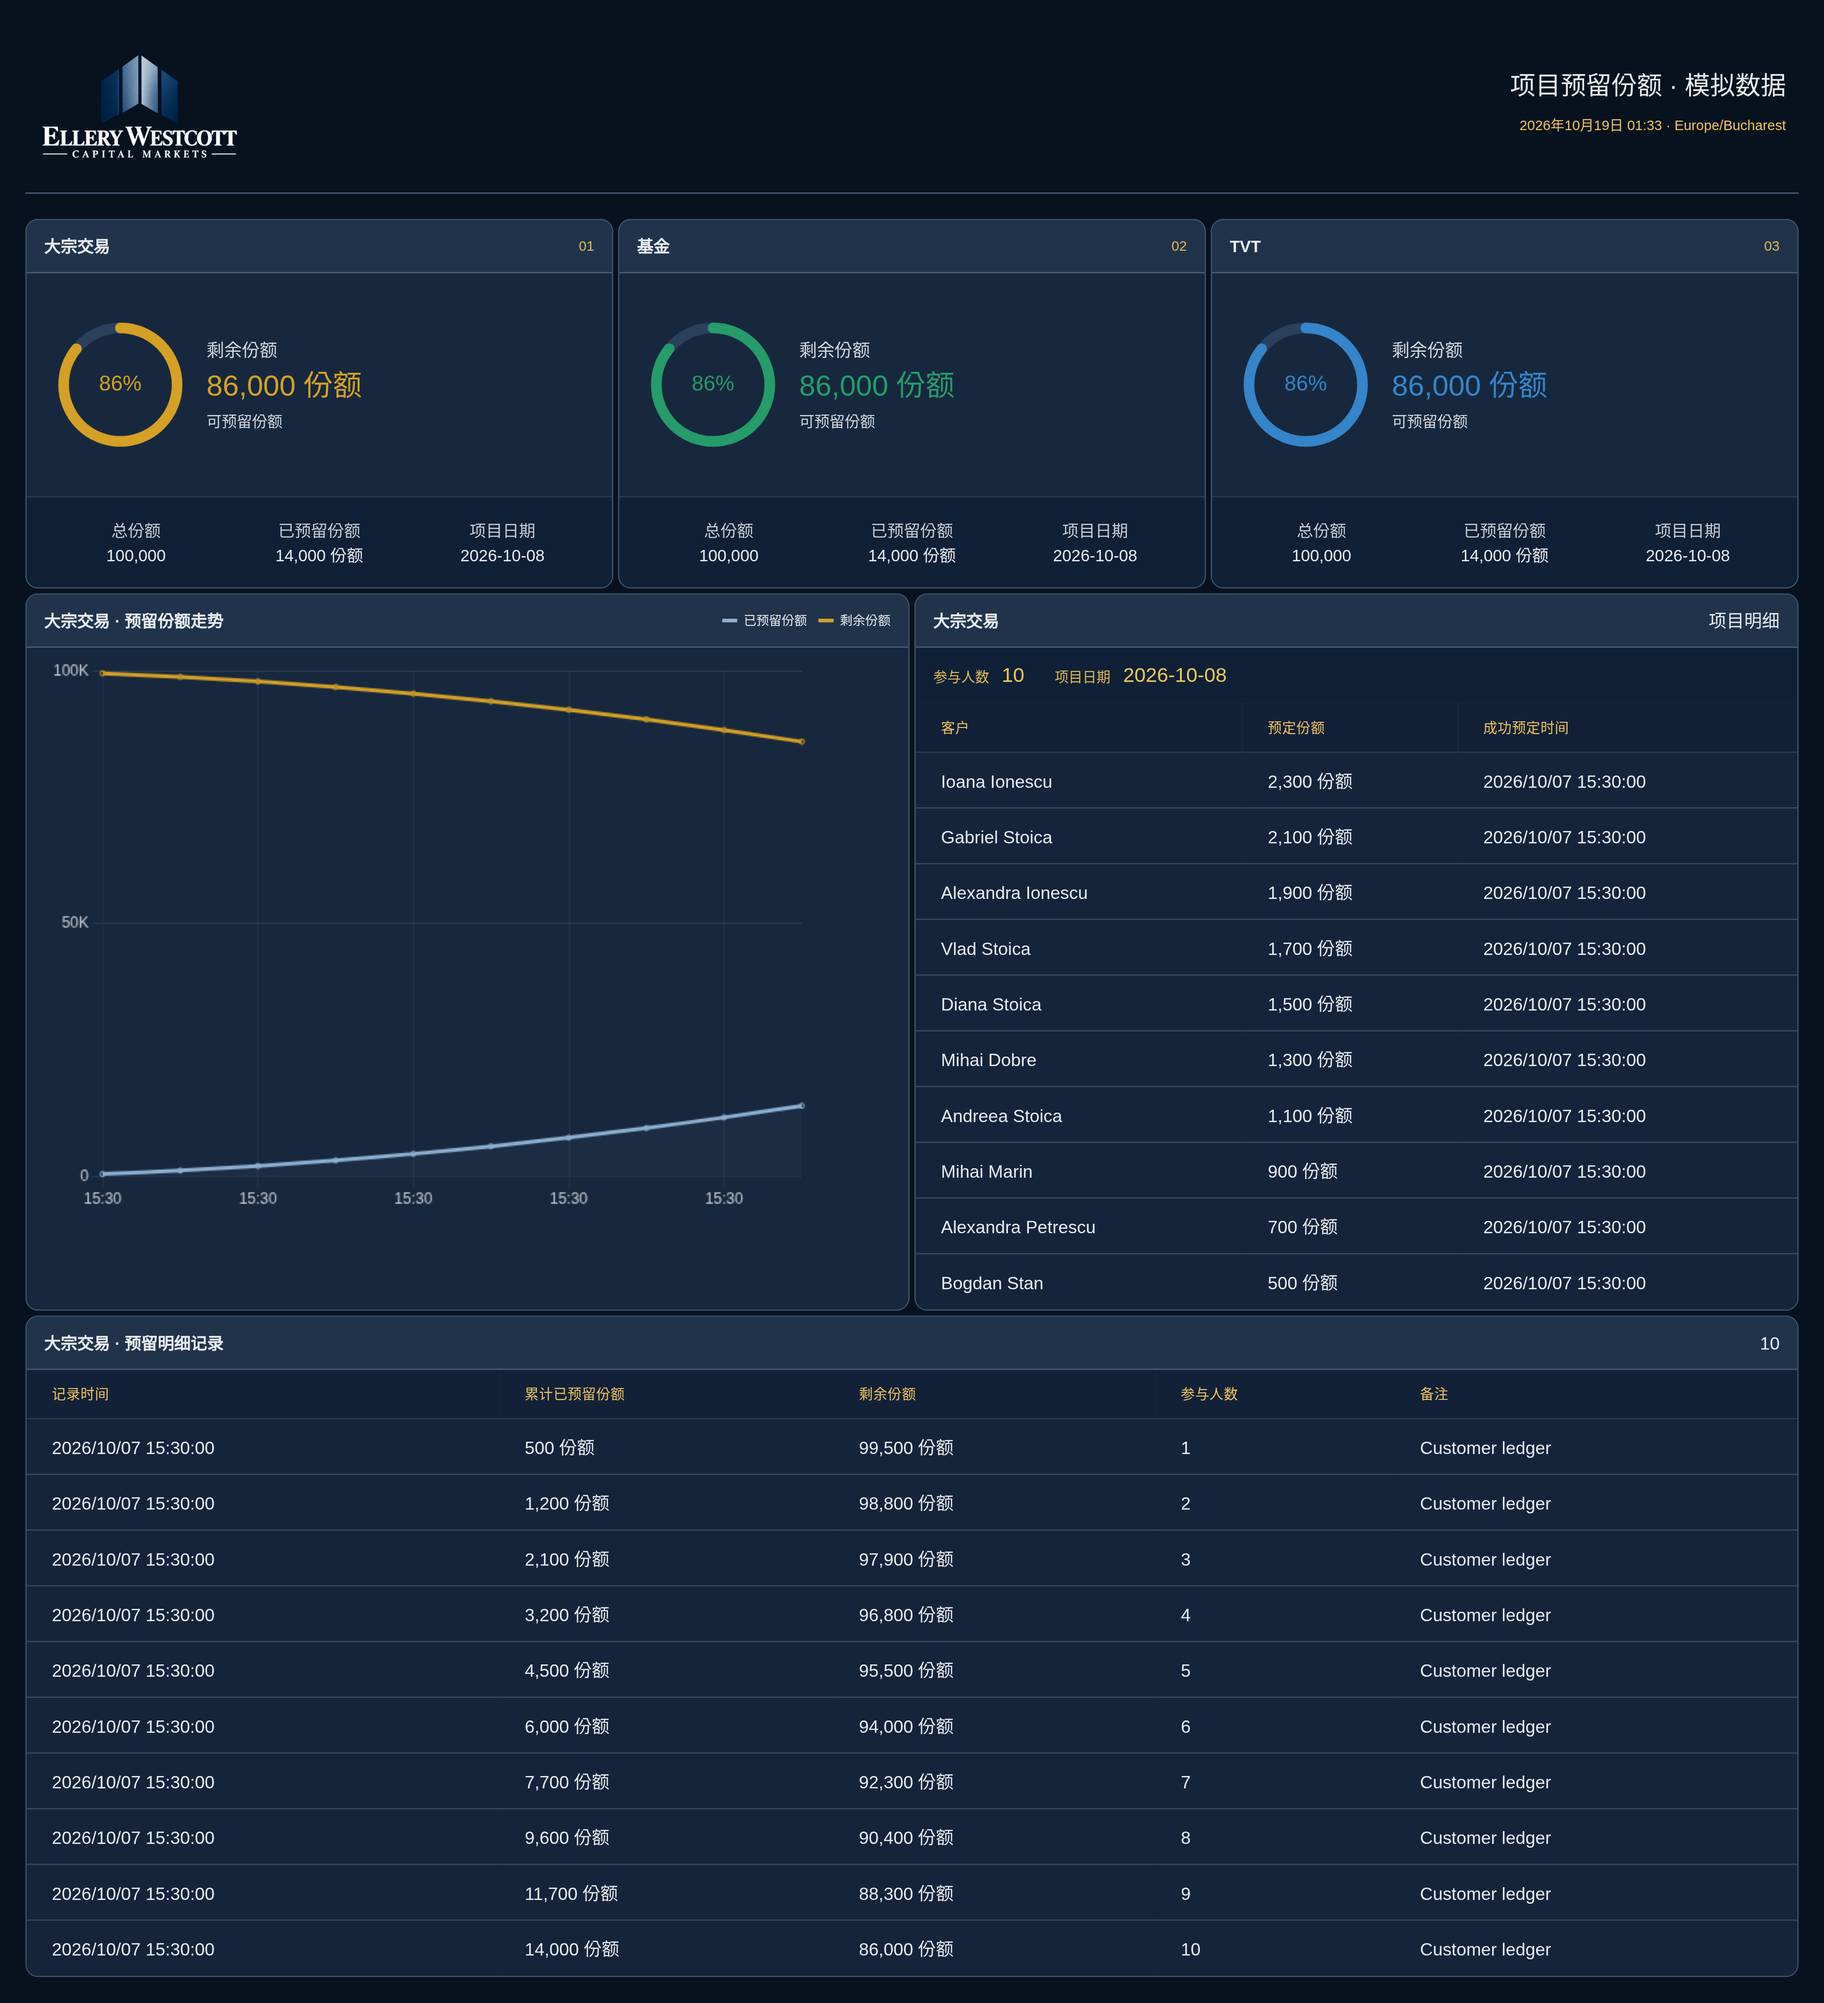
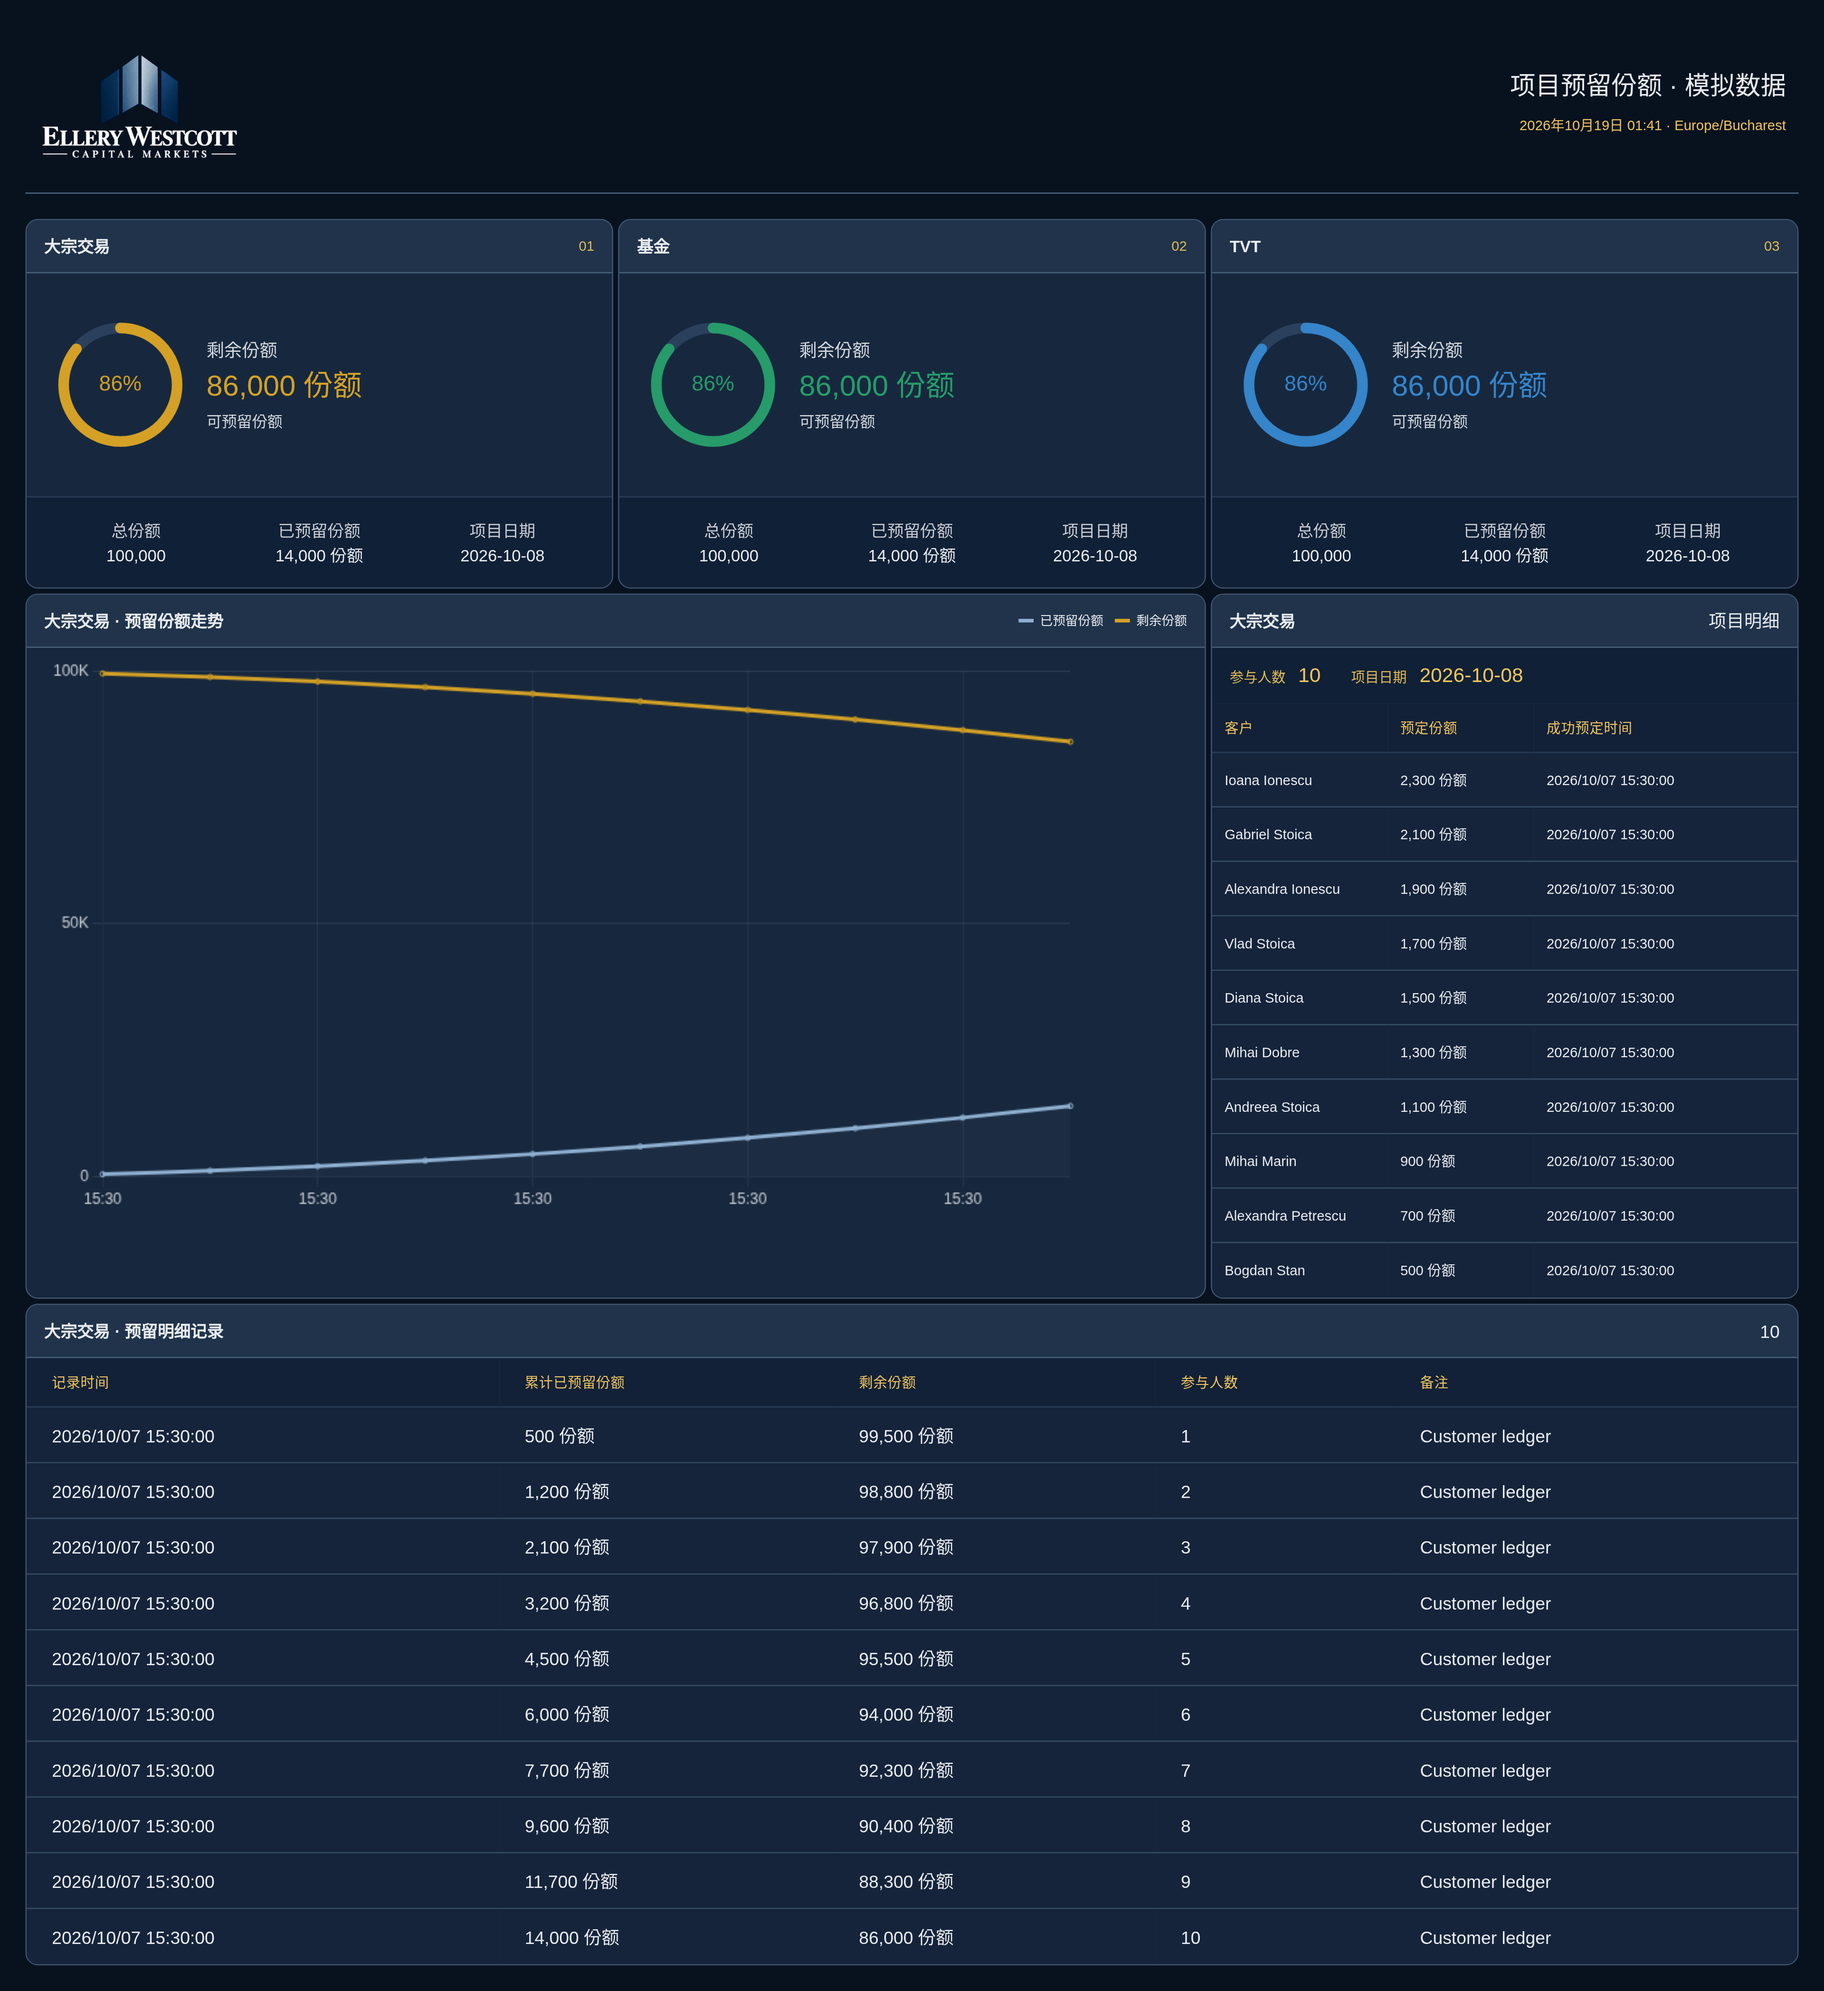
Align three project columns with a two-column chart and one-column detail panel (2.3.2)

diff --git a/ellery-theme.css b/ellery-theme.css
@@ -370,3 +370,7 @@ body :is(#root#root#root#root#root#root#root#root#root#root#root#root,#modalRoot
 
 /* Project values and percentages intentionally follow each ring color. */
 body :is(#root#root#root#root#root#root#root#root#root#root#root#root,#modalRoot#modalRoot#modalRoot#modalRoot#modalRoot#modalRoot#modalRoot#modalRoot#modalRoot#modalRoot#modalRoot#modalRoot){& .projectOverviewCard .projectOverviewNumbers strong{color:var(--project-accent)!important;}& .projectOverviewCard .projectProgressRing text{fill:var(--project-accent)!important;}}
+
+/* Shared three-column grid: chart spans the first two project columns. */
+body :is(#root#root#root#root#root#root#root#root#root#root#root#root,#modalRoot#modalRoot#modalRoot#modalRoot#modalRoot#modalRoot#modalRoot#modalRoot#modalRoot#modalRoot#modalRoot#modalRoot){& .projectOverviewLower{grid-template-columns:repeat(3,minmax(0,1fr))!important;}& .projectTrendPanel{grid-column:span 2!important;}& .projectOverviewSummary{grid-column:span 1!important;}& .customerRanking .dataTable{table-layout:fixed!important;min-width:0!important;width:100%!important;}& .customerRanking :is(td,th){white-space:normal!important;overflow-wrap:anywhere!important;padding:10px!important;font-size:11px!important;}& .customerRanking :is(td,th):nth-child(1){width:30%!important;}& .customerRanking :is(td,th):nth-child(2){width:25%!important;}& .customerRanking :is(td,th):nth-child(3){width:45%!important;}}
+@media(max-width:760px){body :is(#root#root#root#root#root#root#root#root#root#root#root#root,#modalRoot#modalRoot#modalRoot#modalRoot#modalRoot#modalRoot#modalRoot#modalRoot#modalRoot#modalRoot#modalRoot#modalRoot){& .projectOverviewLower{grid-template-columns:1fr!important;}& :is(.projectTrendPanel,.projectOverviewSummary){grid-column:span 1!important;}}}

diff --git a/page-export.js b/page-export.js
@@ -49,7 +49,9 @@ export async function exportPagePNG(element,{filename='Ellery-Westcott',button,n
     style.textContent=`
      [data-png-export] :is(.tableWrap,.panelBody,.shareMainGrid,.shareLowerGrid,.shareServiceTimeline){height:auto!important;max-height:none!important;overflow:visible!important;}
      [data-png-export] .projectOverviewCards{grid-template-columns:repeat(3,minmax(0,1fr))!important;}
-     [data-png-export] .projectOverviewLower{grid-template-columns:minmax(0,1fr) minmax(0,1fr)!important;}
+     [data-png-export] .projectOverviewLower{grid-template-columns:repeat(3,minmax(0,1fr))!important;}
+     [data-png-export] .projectTrendPanel{grid-column:span 2!important;}
+     [data-png-export] .projectOverviewSummary{grid-column:span 1!important;}
      [data-png-export] .exportBrandHeader{display:flex!important;align-items:center!important;justify-content:space-between!important;margin:0 0 16px!important;padding:0 10px 12px!important;border-bottom:1px solid #496078!important;}
      [data-png-export] .exportBrandHeader>img{width:160px!important;height:120px!important;object-fit:contain!important;}
      [data-png-export] .exportBrandHeader>div{display:grid!important;gap:8px!important;text-align:right!important;}

diff --git a/index.html b/index.html
@@ -7,11 +7,11 @@
 <script src="/vendor-chart.js"></script>
 <link rel="stylesheet" href="/styles.css">
 <link rel="stylesheet" href="/delivery-layout.css">
-<link rel="stylesheet" href="/ellery-theme.css?v=2.3.1">
+<link rel="stylesheet" href="/ellery-theme.css?v=2.3.2">
 </head>
 <body>
 <div id="root"></div>
 <div id="toast" class="hidden"></div>
-<script type="module" src="/app.js?v=2.3.1"></script>
+<script type="module" src="/app.js?v=2.3.2"></script>
 </body>
 </html>

diff --git a/app.js b/app.js
@@ -1,4 +1,4 @@
-import {exportPagePNG} from './page-export.js?v=2.3.0';
+import {exportPagePNG} from './page-export.js?v=2.3.2';
 import {installViewportLayout} from './viewport-layout.js?v=20261018-remediation-17';
 
 import {currencyTotals,monthlyTradeTotals,dailyActivityCounts} from "./dashboard-data.js?v=20261009-brighter";

diff --git a/allocation-projects.js b/allocation-projects.js
@@ -1,4 +1,4 @@
-import {exportPagePNG} from './page-export.js?v=2.3.0';
+import {exportPagePNG} from './page-export.js?v=2.3.2';
 import {customerProject,attachCustomerRanking,editCustomerReservation} from './customer-reservations.js?v=20261018-remediation-17';
 import {localeFor} from './ui-features.js?v=20261009-brighter';
 

diff --git a/DESKTOP-RELEASE.zh-CN.md b/DESKTOP-RELEASE.zh-CN.md
@@ -1,4 +1,4 @@
-# Ellery Westcott CRM 桌面版 2.3.1（独立后端）
+# Ellery Westcott CRM 桌面版 2.3.2（独立后端）
 
 基于 `dalulu05168/-` 提交 `4d710588bab46e16fd18c7d6940c15b790f419b4` 的源码复制开发。上传的 Brantone-Veylor-CRM-Setup-1.0.7.exe 因附件读取限制尚未提取，因此不声称与 1.0.7 安装包逐文件一致。
 
@@ -17,7 +17,7 @@
 
 开发机使用 Node.js 22，执行 `npm ci`，`npm run desktop`。
 
-Windows 安装包：`npm run build:win`。产物为 `dist/Ellery-Westcott-CRM-Setup-2.3.1.exe`。NSIS 安装器支持选择空目录或现有本应用目录、创建桌面与开始菜单快捷方式及卸载。卸载保留 AppData 下的应用用户数据。
+Windows 安装包：`npm run build:win`。产物为 `dist/Ellery-Westcott-CRM-Setup-2.3.2.exe`。NSIS 安装器支持选择空目录或现有本应用目录、创建桌面与开始菜单快捷方式及卸载。卸载保留 AppData 下的应用用户数据。
 
 应用需要互联网连接到配置的 Supabase 服务和行情数据源。所有用户需要有效授权账号；界面代码不提供额外数据库权限。
 
@@ -46,3 +46,5 @@ Windows 安装包：`npm run build:win`。产物为 `dist/Ellery-Westcott-CRM-Se
 2.3.0：银亮正文、金黄关键文字、行情图标分色、深色层次与完整业务 PNG 导出修复，见 docs/UI-2.3.0.md。
 
 2.3.1：项目数字及圆环内百分比与对应金、绿、蓝色保持一致，普通文字继续使用银亮／金黄。
+
+2.3.2：按标记重排：上方三等列，下方图表跨两列、明细占一列，列边界严格对齐；导出图使用相同布局。

diff --git a/docs/UI-2.3.2.md b/docs/UI-2.3.2.md
@@ -1,0 +1,9 @@
+# Project layout from marked proportions — 2.3.2
+
+Three equal project cards form the top row. The lower row uses the same three-column grid: the chart spans columns one and two and project details occupies column three. This aligns the chart's right edge to the second project card and the details' left edge to the third card. The arrangement expresses the user's approximate drawing with precise grid boundaries, rather than copying freehand rectangle coordinates.
+
+On narrow screens the sections stack. The narrower details table wraps names and timestamps so content remains readable. The exported business image uses the same three-column geometry.
+
+Ring strokes, percentages and allocation figures remain matched gold/green/blue. General silver/gold typography, visible market icons, compact section headings and 1 CSS mm module gaps are preserved. No live database or account changes.
+
+Browser export validation measured a chart width of 844.39px and a details width of 420.31px at 1440px viewport, and asserted column-edge alignment within 1px. Project/customer download flows passed; the project fixture exported at 3840×4192 and the customer fixture at 3840×4469. Preview images use simulated data.
